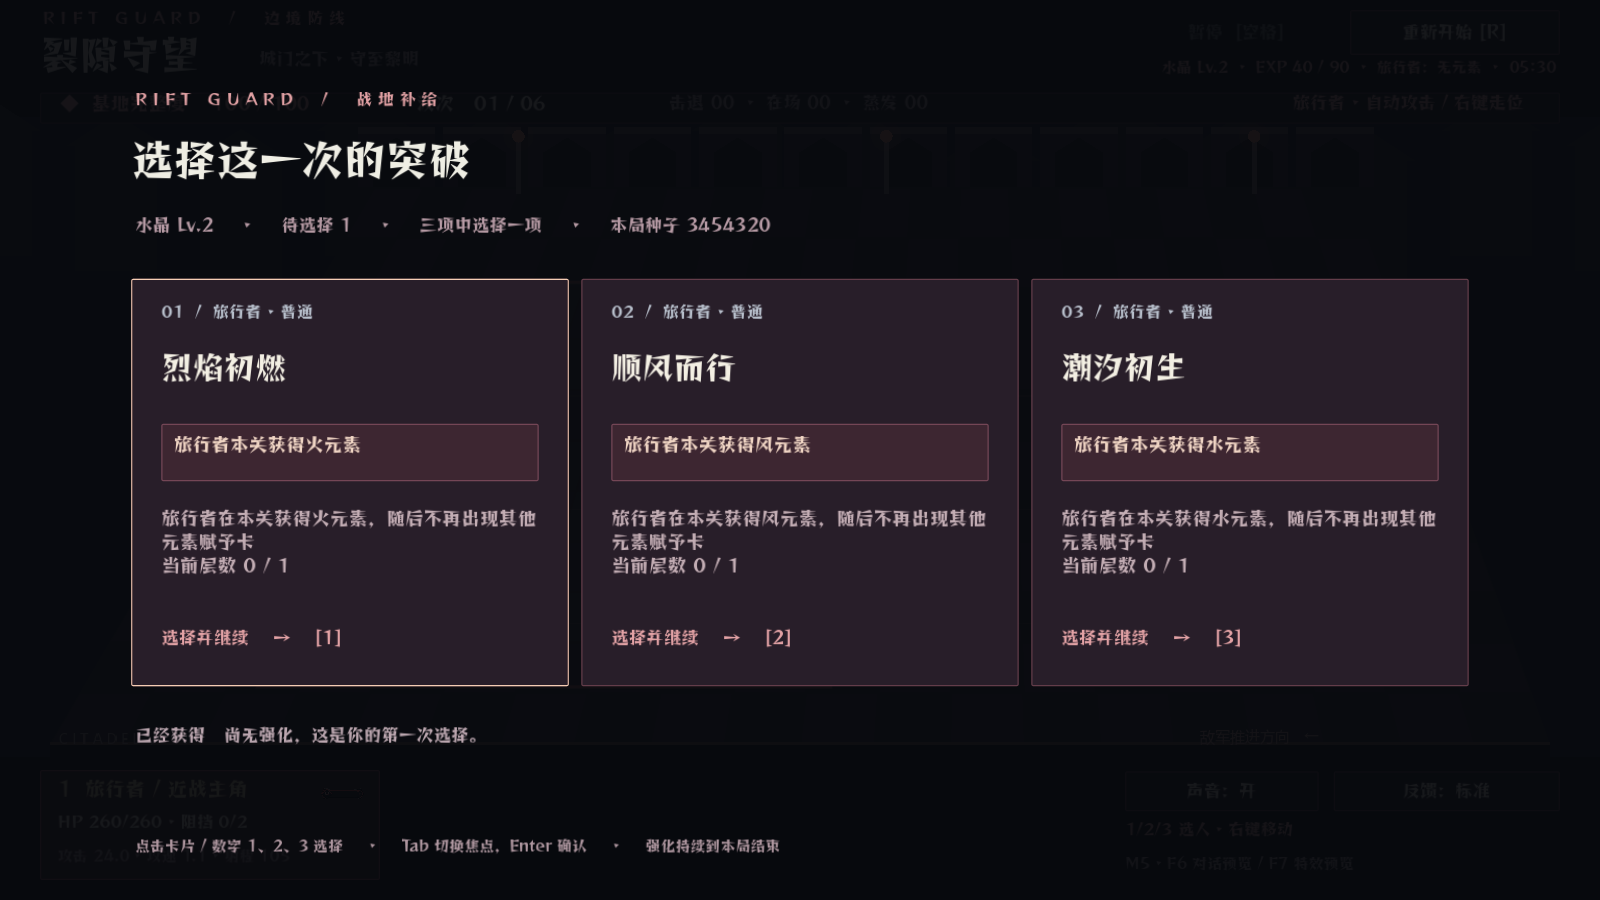
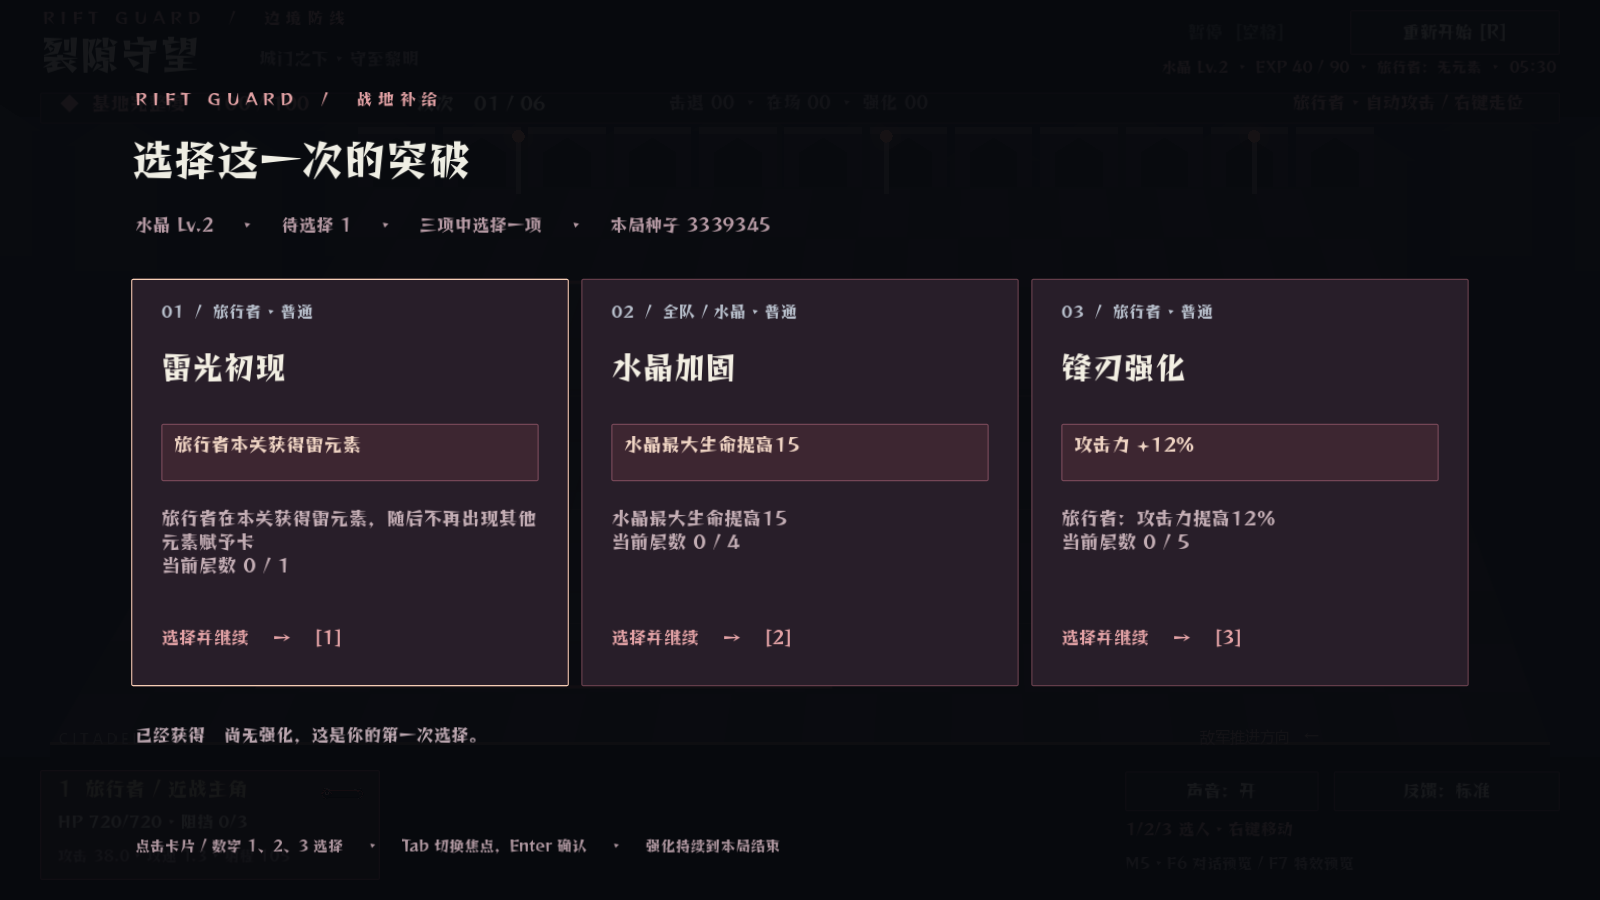
test: verify core loop across display sizes

diff --git a/docs/phase-1-validation/REPORT.md b/docs/phase-1-validation/REPORT.md
@@ -26,7 +26,7 @@ Godot：4.4.1.stable.official.49a5bc7b6
 | 水晶经验 | 经验溢出连续跨越三个阈值并排队三次选择通过 |
 | 动态卡池 | 100 个随机种子下候选唯一、目标合法、元素锁定通过 |
 | 关卡运行时 | 330 秒前不能结束、270 秒 Boss 只触发一次 |
-| 正式启动 UI | 65 项断言通过，0 项失败 |
+| 正式启动 UI | 68 项断言通过，0 项失败，覆盖 1280×720、1600×900、1920×1080 |
 | 完整加速关卡 | 330 秒、13 次选卡、Boss 与重置通过 |
 | 无作弊强势构筑 | 358.93 秒通关、击杀 138、13 次选卡、水晶 100 |
 | 旧战斗回归 | 32 项通过 |
@@ -37,6 +37,7 @@ Godot：4.4.1.stable.official.49a5bc7b6
 
 - `battle-start.png`：无元素旅行者、05:30 倒计时与单角色 HUD；
 - `first-reward.png`：水晶 Lv.2 的三张元素赋予卡。
+- `reward-1280x720.png`、`reward-1600x900.png`、`reward-1920x1080.png`：三种窗口尺寸的三选一卡面验证。
 
 ## 当前边界
 
